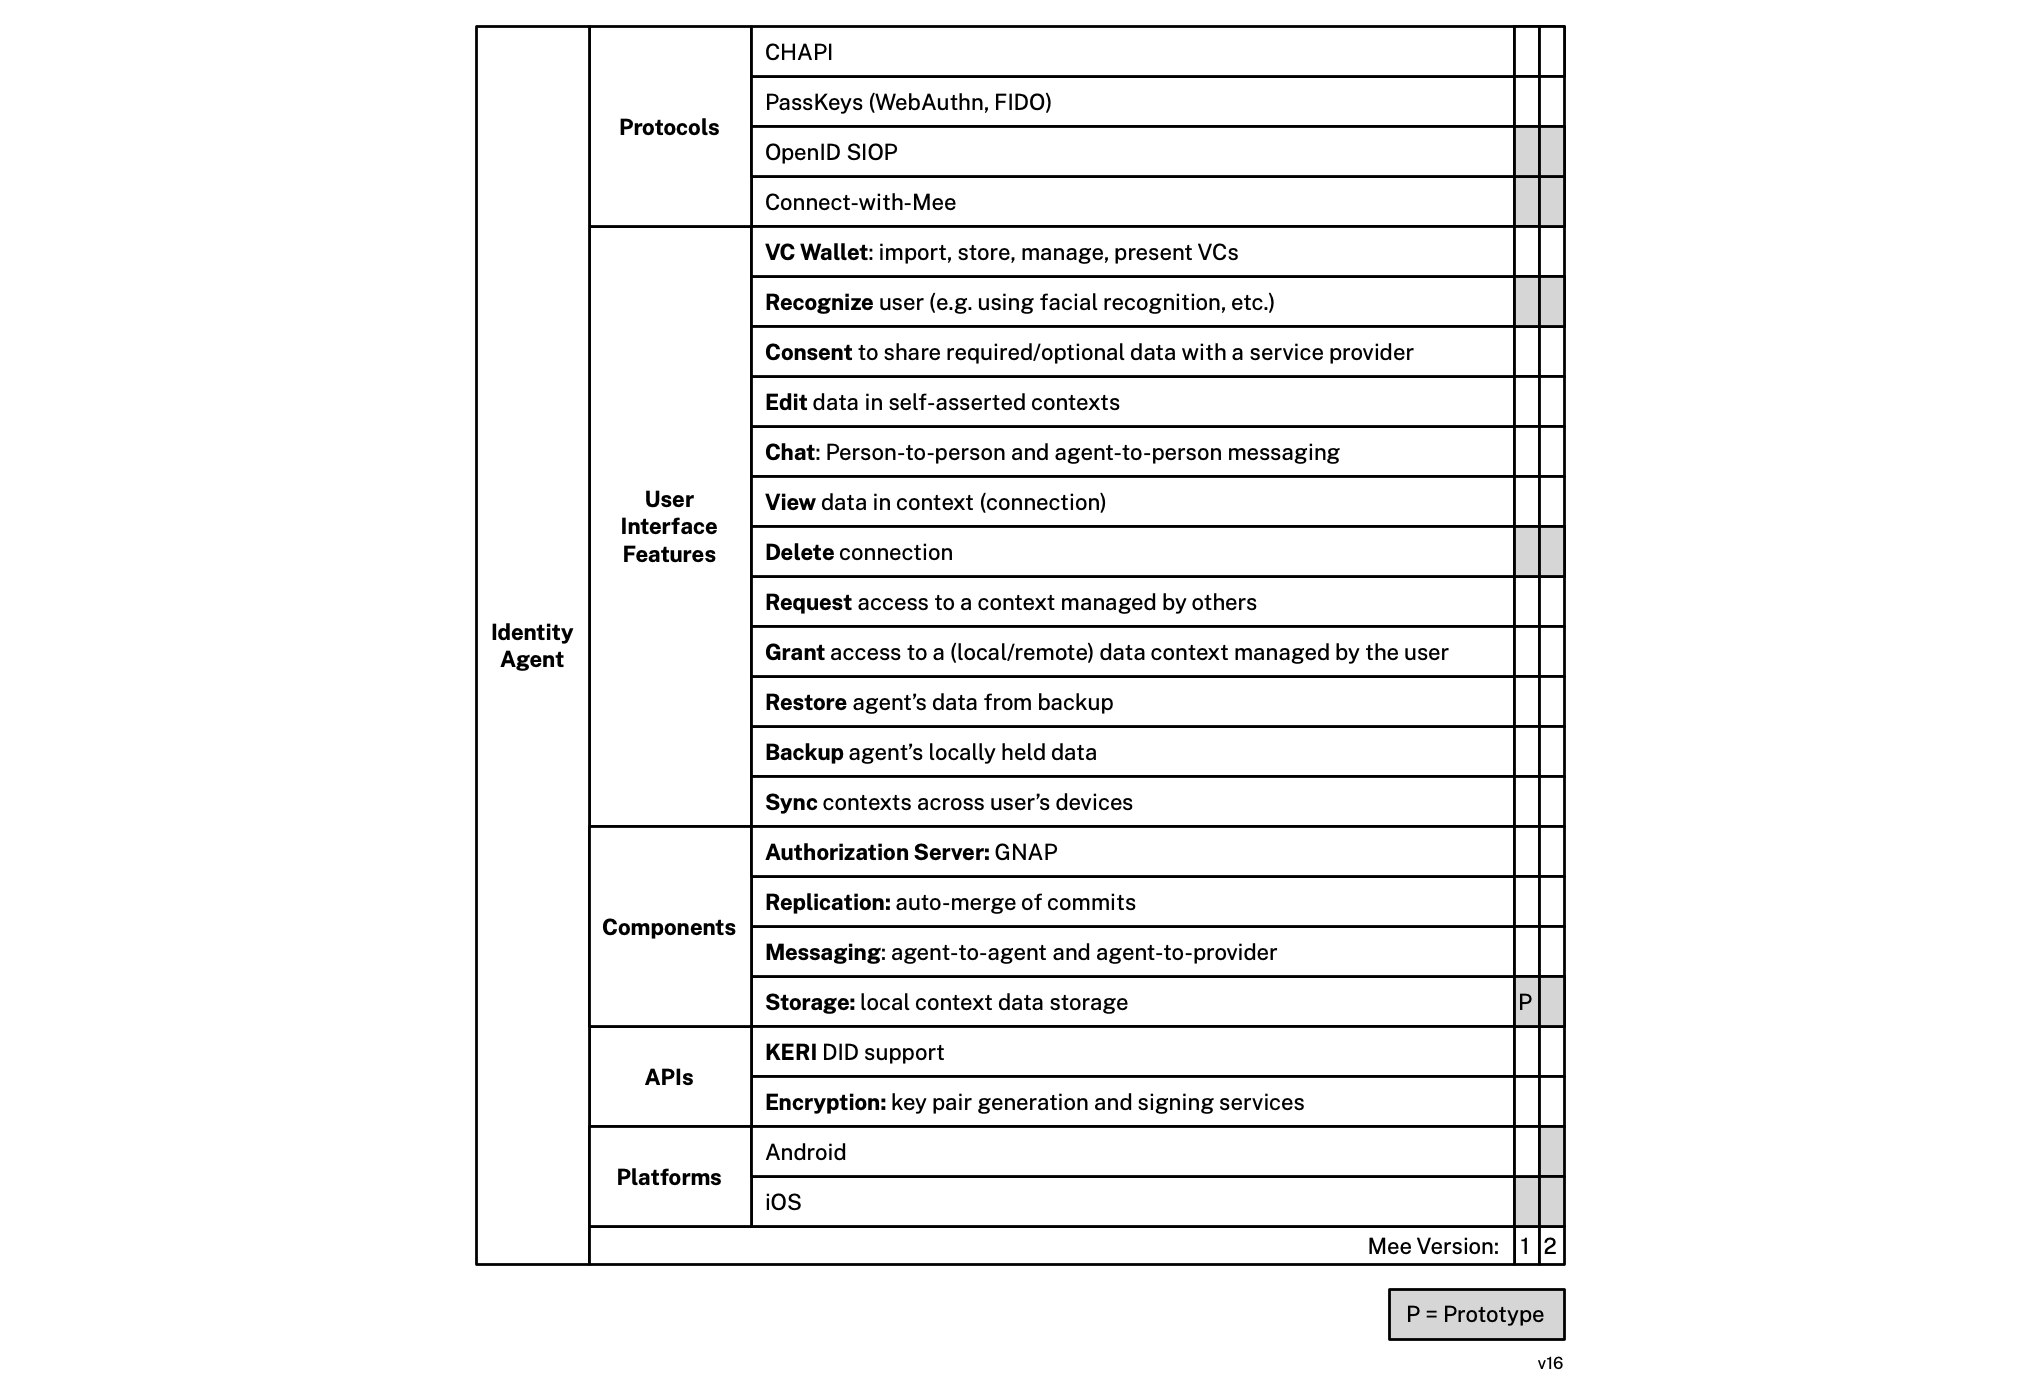
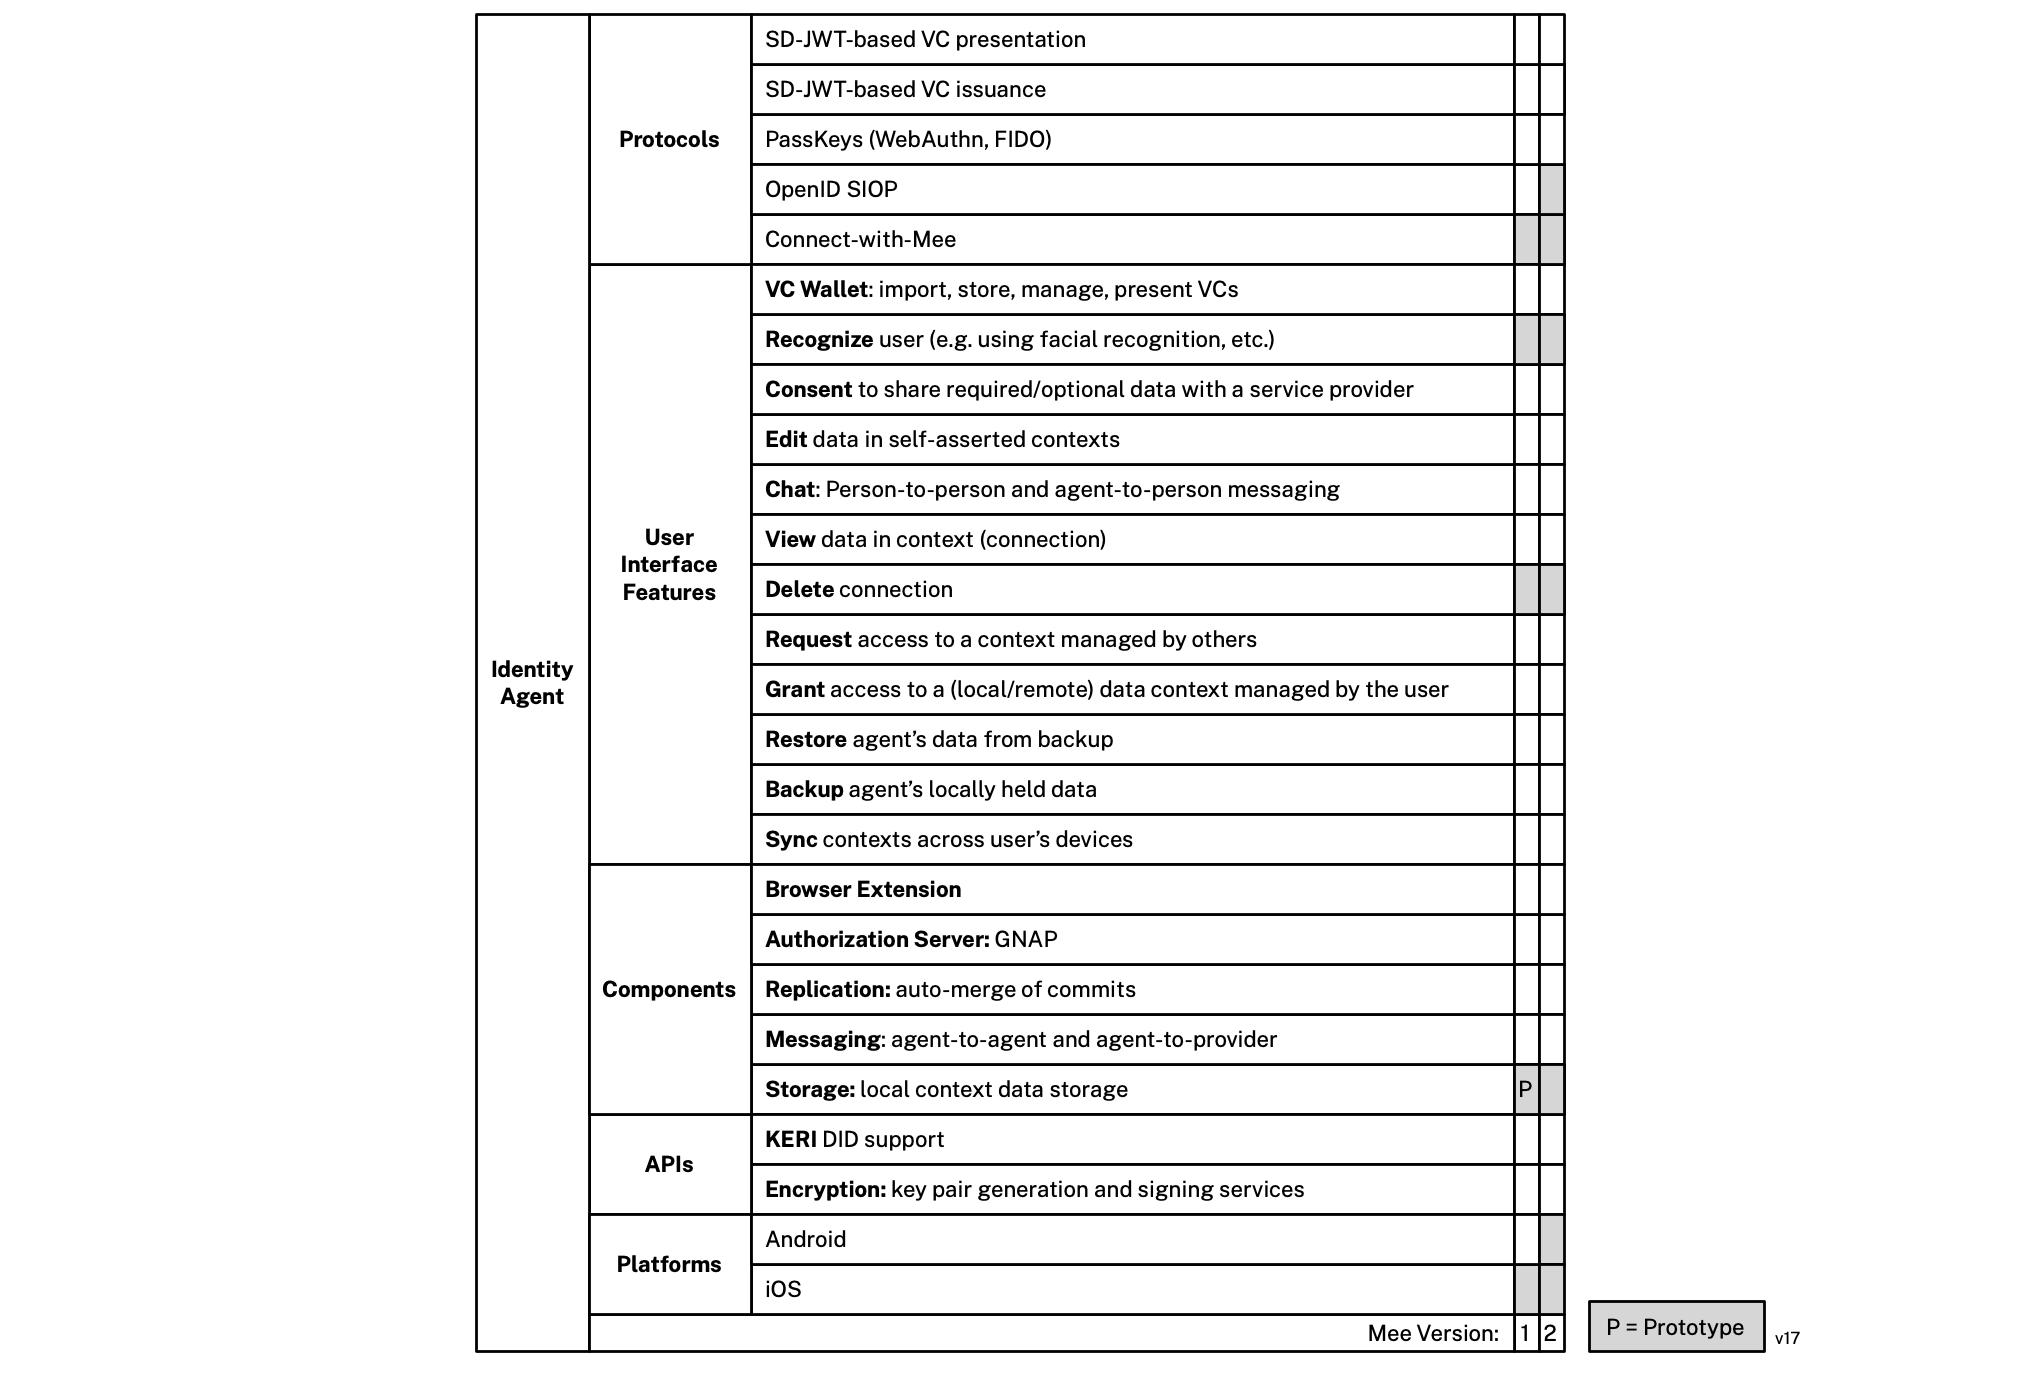
SD-JWT-based VC issuance

Changed region(s): [[0.2473, 0.0, 0.8656, 0.9993], [0.2473, 0.4372, 0.2782, 0.5309]]

diff --git a/src/Identity_agent.md b/src/Identity_agent.md
@@ -4,11 +4,11 @@
 
 The Mee *identity agent* (a term we invented) is an app that offers privacy and convenience by giving the user more control over their own personal information as they interact with websites, mobile apps, and other user's agents.
 
-**Privacy**. The agent runs on the user's edge devices (mobile phone, laptop, etc.) where it holds, entirely under the user's control, a local, private database of the user's personal information. When an app/site wants to know something about the user, the agent shares as much or as little as the user chooses. If an app/site signs the Mee Human Information License and thereby becomes "Mee-certified", the legal entity behind that app/site becomes obligated to protect whatever information the user shares with them. We envision that someday agents could provide ad profiles to Mee-certified publisher websites that are supported by targeted advertising while eliminating the need for surveillance by third-parties.
+**Privacy and Autonomy**. The agent runs on the user's edge devices (mobile phone, laptop, etc.) where it holds, entirely under the user's control, a local, private database of the user's personal information. When an app/site wants to know something about the user, the agent shares as much or as little as the user chooses. If an app/site signs the Mee Human Information License and thereby becomes "Mee-certified", the legal entity behind that app/site becomes obligated to (a) require explicit consent for collection, processing, storage and sharing of the users data and (b) must implement APIs to exercise the user's rights to access, correct and delete the user's personal information. We envision that someday agents could provide ad profiles to Mee-certified publisher websites that are supported by interest-based advertising while eliminating the need for surveillance by third-parties.
 
-**Convenience**. Although the agent is an interactive application, it operates quietly in the background most of the time. Always working soley in the user's interest, it collects information from sites that already hold their data, and shares it with other sites that need it. Our vision is that that the user *never has to repeat themself* (nor remember passwords!) as they move from app to app and site to site across the internet.
+**Convenience**. Although the agent is an interactive application, it operates in the background most of the time. Always working soley in the user's interest, it collects information from sites that already hold their data, and shares it with other sites that need it. Our vision is that that the user *never has to repeat themself* (nor remember passwords!) as they move from app to app and site to site across the internet.
 
-Here are a few examples. If a site wanted to know the user's email address it might ask for it in a web form. In this case the agent would use it's form-filler "protocol" to fill in the value. If the site supports password-less sign-in (e.g. using OpenID Connect SIOP) the agent acts as the identity provider. If a site needed a digital driver's license credential, the agent acts as a digital wallet and presents this credential that it had presumably downloaded earlier from an issuing site. In these different examples, different protocols for information sharing are required, and in the interest of convenience, the agent should support all of them.
+Here are a few examples. If a site wanted to know the user's email address it might ask for it in a web form. In this case the agent would use it's form-filler "protocol" to fill in the value. If the site supports password-less sign-in (e.g. using OpenID Connect) the agent acts as the identity provider. If a site needed a digital driver's license credential, the agent acts as a digital wallet and presents this credential that it had presumably downloaded earlier from an issuing site. In these different examples, different protocols for information sharing are required, and in the interest of convenience, the agent should support all of them.
 
 ## Self and contexts
 
@@ -32,7 +32,7 @@ Here is an overview of the long-term, planned functionality of the agent version
 
 - Credential Handler API (CHAPI)
 - PassKeys (WebAuthn)
-- OpenID SIOP
+- OpenID SIOPv2
 - Connect-with-Mee: a variant on OpenID SIOP that uses a universal link to the Mee agent
 
 **UI Features**

diff --git a/src/Use_cases.md b/src/Use_cases.md
@@ -14,7 +14,9 @@ We called this section "login" yet the use cases here support a one click intera
 
 ##### Use case #1: Connect-with-Mee SIOP
 
-Allows the user to signin/up to websites and apps that support a Mee-specific variant of the OpenID Connect [SIOPv2](https://openid.net/specs/openid-connect-self-issued-v2-1_0.html) protocol standard. The variation introduces a Mee-specific button on the relying party site/app called "Connect with Mee" that includes a universal link to the agent running on iOS rather than relying on SIOP discovery. The user can signin/up without requiring a password, and without being tracked by third-parties (e.g. Google, Apple, Facebook, etc.). Another advantage of Connect-with-Mee is that if the user doesn't have an agent installed, they are automatically redirected to the App Store where they can download it.
+Allows the user to signin/up to websites and apps that support a Mee-specific variant of the OpenID Connect [SIOPv2](https://openid.net/specs/openid-connect-self-issued-v2-1_0.html) protocol standard. The user can signin/up without requiring a password, and without being tracked by third-parties (e.g. Google, Apple, Facebook, etc.).
+
+The Mee-specific variation introduces a "Connect with Mee" button on the relying party site/app that has a universal (deep) link to the agent running on iOS, rather than relying on SIOP discovery which is weaker from a security point of view. Another advantage of Connect-with-Mee is that if the user doesn't have an agent installed, they are automatically redirected to the App Store where they can download it.
 
 We plan to implement this use case in v1 of the agent.
 
@@ -62,9 +64,9 @@ Scenario:
 
 To implement this the agent could support:
 
-- SD-JWT based VC issuance, according to OpenID VC Issuance spec. 
+- SD-JWT-based VC issuance, according to OpenID VC Issuance spec. 
 
-- SD-JWT based VC presentation according to OpenID VC presentation spec. 
+- SD-JWT-based VC presentation according to OpenID VC presentation spec. 
 
 - Ability to store VCs and select etc. with a friendly UI
 
@@ -125,10 +127,15 @@ Allows the user to analyze how they are connected to others across social networ
 
 #### Meta-Account Management
 
+##### Use case #1
+
 Syncronizes and updates the user's account profile data at websites/apps using existing APIs:
 
 - [Google Account](https://myaccount.google.com) - Google-specific API
 - [Facebook Graph API](https://developers.facebook.com/docs/graph-api) - Facebook-specific API
+- [Twitter Accounts and users](https://help.twitter.com/en/rules-and-policies/twitter-api#:~:text=Our%20API%20platform%20provides%20broad,have%20authorized%20to%20do%20so.) - Twitter-specific API to manage an account's profile and settings
+
+##### Use case #2
 
 Syncronizes and updates the user's profile at websites/apps using MeeTalk.
 
@@ -138,7 +145,7 @@ Integrate the user's calendars on multiple systems. Allow others to create appoi
 
 ### Banking
 
-Leverage the [UK Open Banking API](https://standards.openbanking.org.uk/api-specifications/latest/) to manage the user's banking data.
+Leverage APIs like the [UK Open Banking API](https://standards.openbanking.org.uk/api-specifications/latest/) to manage the user's banking data.
 
 ### Data Collection
 
